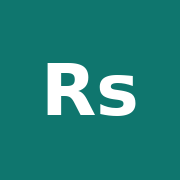
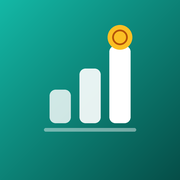
Add files via upload

diff --git a/index.html b/index.html
@@ -80,13 +80,15 @@ dialog{border:1px solid var(--line);border-radius:16px;padding:0;background:var(
 dialog::backdrop{background:rgba(0,0,0,.35)}
 .dh{padding:14px;border-bottom:1px solid var(--line);font-weight:800;display:flex;justify-content:space-between;align-items:center}
 .db{padding:14px}
+.top{flex-wrap:wrap;gap:6px}.topActions{gap:6px}
 </style>
 </head>
 <body>
 <div class="top">
-  <div class="brand"><i style="font-size:12px">Rs</i> Expense Tracker</div>
+  <div class="brand"><i><svg viewBox="0 0 24 24" width="18" height="18" aria-hidden="true"><rect x="3.5" y="13" width="4.5" height="7" rx="1.6" fill="#fff" opacity=".8"/><rect x="9.8" y="9" width="4.5" height="11" rx="1.6" fill="#fff" opacity=".9"/><rect x="16" y="5" width="4.5" height="15" rx="1.6" fill="#fff"/></svg></i> Expense Tracker</div>
   <div class="topActions">
-    <button class="btn sm" id="backupBtn">Download</button>
+    <button class="btn sm" id="syncBtn" onclick="openSync()">Sync</button>
+    <button class="btn sm" id="backupBtn">Backup</button>
     <label class="btn sm" style="cursor:pointer"><input id="restoreFile" type="file" accept=".db,.sqlite,.bin" hidden>Restore</label>
   </div>
 </div>
@@ -100,6 +102,8 @@ dialog::backdrop{background:rgba(0,0,0,.35)}
       <div class="amountWrap"><span>Rs.</span><input id="amt" class="input" inputmode="decimal" placeholder="0.00" autocomplete="off"></div>
       <div style="height:10px"></div>
       <div class="seg" role="tablist"><button id="tExpense" class="on" onclick="switchType('expense')">Expense</button><button id="tIncome" onclick="switchType('income')">Income</button></div>
+      <div class="label">Account</div><div id="accChips" class="chips"></div><div id="accHint" class="muted" style="font-size:12px;margin:6px 2px 0"></div>
+      <div id="noAcc" class="hidden empty" style="padding:12px;margin-top:8px">No account yet. <a href="#" onclick="nav('accounts');openAcc();return false" style="color:var(--teal2);font-weight:700">Create your first account</a></div>
       <div class="label">Category</div>
       <div id="catChips" class="chips"></div>
       <div id="subWrap" class="hidden"><div class="label">Sub-category</div><div id="subChips" class="chips"></div></div>
@@ -156,14 +160,23 @@ dialog::backdrop{background:rgba(0,0,0,.35)}
         <select id="loanKind" class="input"><option value="given">Lent</option><option value="returned">Received</option></select>
       </div>
       <input id="loanNote" class="input" placeholder="Note (optional)" style="margin-top:8px">
+      <select id="loanAcc" class="input" style="margin-top:8px"></select>
       <button class="btn primary" style="width:100%;margin-top:10px" onclick="addLoan()">Add entry</button>
     </div>
     <div id="pendingsList" class="list" style="margin-top:12px"></div>
   </section>
 
+  <!-- ACCOUNTS -->
+  <section id="view-accounts" class="hidden">
+    <div class="card hero"><div class="k">Total balance</div><div id="accTotal" class="v">Rs. 0.00</div></div>
+    <div class="row" style="margin-top:10px"><button class="btn primary" onclick="openAcc()">+ Account</button><button class="btn" onclick="openTr()">⇄ Transfer</button><button class="btn" onclick="nav('categories')">Categories</button></div>
+    <div id="accList" class="list" style="margin-top:10px"></div>
+    <div class="label">Recent transfers</div><div id="trList" class="list"></div>
+  </section>
+
   <!-- CATEGORIES -->
   <section id="view-categories" class="hidden">
-    <div class="card hrow"><b>Categories</b><button class="btn primary sm" onclick="openCat()">+ New category</button></div>
+    <div class="card hrow"><button class="btn sm" onclick="nav('accounts')">‹ Accounts</button><b>Categories</b><button class="btn primary sm" onclick="openCat()">+ New category</button></div>
     <div id="catsExpense" class="list" style="margin-top:10px"></div>
     <div class="label">Income categories</div>
     <div id="catsIncome" class="list"></div>
@@ -175,7 +188,7 @@ dialog::backdrop{background:rgba(0,0,0,.35)}
   <button id="nav-history" onclick="nav('history')"><b>◧</b>History</button>
   <button id="nav-dashboard" onclick="nav('dashboard')"><b>◰</b>Dashboard</button>
   <button id="nav-pendings" onclick="nav('pendings')"><b>⇄</b>Pendings</button>
-  <button id="nav-categories" onclick="nav('categories')"><b>⚙</b>Categories</button>
+  <button id="nav-accounts" onclick="nav('accounts')"><b>◎</b>Accounts</button>
 </nav>
 
 <div id="toast" class="hidden" style="position:fixed;left:12px;right:12px;bottom:76px;z-index:30;max-width:496px;margin:auto;background:var(--text);color:var(--bg);padding:10px 14px;border-radius:12px;display:flex;justify-content:space-between;align-items:center;font-weight:600"></div>
@@ -194,6 +207,25 @@ dialog::backdrop{background:rgba(0,0,0,.35)}
     <div class="row" style="margin-top:12px"><button class="btn" style="flex:1" onclick="catDlg.close()">Cancel</button><button class="btn primary" style="flex:1" onclick="saveCategory()">Save</button></div>
   </div>
 </dialog>
+
+<dialog id="accDlg"><div class="dh"><span id="accDlgTitle">New account</span><button class="btn sm" onclick="accDlg.close()">✕</button></div><div class="db">
+  <input id="accName" class="input" placeholder="Name (e.g. Cash, HBL Bank, JazzCash)" maxlength="24">
+  <div class="label">Opening balance (Rs.)</div><input id="accOpen" class="input" inputmode="decimal" placeholder="0">
+  <div class="label">Emoji</div><input id="accEmoji" class="input" maxlength="4">
+  <div class="chips" style="margin-top:8px"><button class="chip" onclick="accEmoji.value='💵'">💵</button><button class="chip" onclick="accEmoji.value='🏦'">🏦</button><button class="chip" onclick="accEmoji.value='📱'">📱</button><button class="chip" onclick="accEmoji.value='💳'">💳</button><button class="chip" onclick="accEmoji.value='👛'">👛</button><button class="chip" onclick="accEmoji.value='🪙'">🪙</button></div>
+  <input type="hidden" id="accId"><div class="row" style="margin-top:12px"><button class="btn" onclick="accDlg.close()">Cancel</button><button class="btn primary" onclick="saveAcc()">Save</button></div></div></dialog>
+
+<dialog id="trDlg"><div class="dh"><span>Transfer between accounts</span><button class="btn sm" onclick="trDlg.close()">✕</button></div><div class="db">
+  <div class="label">From</div><select id="trFrom" class="input"></select><div class="label">To</div><select id="trTo" class="input"></select>
+  <div class="label">Amount (Rs.)</div><input id="trAmt" class="input" inputmode="decimal" placeholder="0.00">
+  <div class="grid2" style="margin-top:8px"><input id="trDate" type="date" class="input"><input id="trNote" class="input" placeholder="Note (optional)"></div>
+  <button class="btn primary" style="width:100%;margin-top:12px;padding:12px" onclick="saveTr()">Transfer</button></div></dialog>
+
+<dialog id="syncDlg"><div class="dh"><span>Google Drive sync</span><button class="btn sm" onclick="syncDlg.close()">✕</button></div><div class="db">
+  <div class="muted" style="font-size:13px">Keeps your devices in step through a private Drive app folder that only this app can see.</div>
+  <div class="label">Google Client ID</div><input id="gcid" class="input" placeholder="xxxx.apps.googleusercontent.com" autocomplete="off" autocapitalize="off" spellcheck="false">
+  <button id="syncGo" class="btn primary" style="width:100%;margin-top:12px;padding:12px" onclick="doSync()">Sync now</button>
+  <div id="syncMsg" class="muted" style="font-size:13px;margin-top:10px;min-height:18px"></div><div id="lastSync" class="muted" style="font-size:12px;margin-top:4px"></div></div></dialog>
 
 <script src="https://cdnjs.cloudflare.com/ajax/libs/sql.js/1.10.3/sql-wasm.js"></script>
 <script>
@@ -224,12 +256,15 @@ function ensureSchema(){
   db.run(`CREATE TABLE IF NOT EXISTS loans (id TEXT PRIMARY KEY, person TEXT, txn_date TEXT, amount INTEGER, kind TEXT, note TEXT, updated_at TEXT, deleted_at TEXT)`);
   db.run(`CREATE INDEX IF NOT EXISTS idx_txn_date ON transactions(txn_date)`);
   db.run(`CREATE INDEX IF NOT EXISTS idx_cat_parent ON categories(parent_id)`);
+  db.run(`CREATE TABLE IF NOT EXISTS accounts (id TEXT PRIMARY KEY, name TEXT, emoji TEXT, opening INTEGER, active INTEGER, updated_at TEXT, deleted_at TEXT)`);
+  db.run(`CREATE TABLE IF NOT EXISTS transfers (id TEXT PRIMARY KEY, txn_date TEXT, amount INTEGER, from_id TEXT, to_id TEXT, note TEXT, updated_at TEXT, deleted_at TEXT)`);
+  ['transactions','loans'].forEach(t=>{ if(!q(`PRAGMA table_info(${t})`).some(c=>c.name==='account_id')) db.run(`ALTER TABLE ${t} ADD COLUMN account_id TEXT`); });
 }
 function needSeed(){const r=q(`SELECT count(*) as c FROM categories WHERE deleted_at IS NULL`); return (r[0]?.c||0)===0;}
 function seed(){
   const now=new Date().toISOString();
   function addCat(name,kind,emoji,color,parent=null){
-    const id=uid(); run(`INSERT INTO categories (id,name,parent_id,kind,emoji,color,active,updated_at) VALUES (?,?,?,?,?,?,1,?)`,[id,name,parent,kind,emoji,color,now]); return id;
+    const id='seed:'+kind+':'+name+(parent?'@'+parent:''); run(`INSERT INTO categories (id,name,parent_id,kind,emoji,color,active,updated_at) VALUES (?,?,?,?,?,?,1,?)`,[id,name,parent,kind,emoji,color,now]); return id;
   }
   const exp=[
     ['Food','🍔','#f97316',[['Restaurant'],['Groceries'],['Cafe']]],
@@ -258,14 +293,19 @@ async function init(){
   if(buf){ db=new SQL.Database(new Uint8Array(buf)); ensureSchema();}
   else { db=new SQL.Database(); ensureSchema(); if(needSeed()) seed(); await saveDB();}
   // ensure schema if old
-  ensureSchema(); loadCats();
+  ensureSchema();
+  if(localStorage.getItem('exp_seedv')!=='2'){ // one-time: shared default category ids so synced devices do not get duplicate categories
+    if(!q(`SELECT 1 x FROM transactions LIMIT 1`).length && !q(`SELECT 1 x FROM loans LIMIT 1`).length){ run(`DELETE FROM categories`); seed(); await saveDB(); }
+    localStorage.setItem('exp_seedv','2');
+  }
+  loadCats();
   $('#txnDate').value=todayISO();
   $('#loanDate').value=todayISO();
   buildEmojiGrid(); buildSwatches();
   switchType('expense'); renderAll(); setupBackup(); updateBk(); if(navigator.storage&&navigator.storage.persist) navigator.storage.persist();
   if('serviceWorker' in navigator) try{navigator.serviceWorker.register('sw.js');}catch{}
 }
-function renderAll(){renderCatChips(); const m={history:renderHistory,dashboard:renderDashboard,pendings:renderPendings,categories:renderCategories}[curView]; if(m) m();}
+function renderAll(){renderCatChips(); renderAccChips(); const m={accounts:renderAccounts,history:renderHistory,dashboard:renderDashboard,pendings:renderPendings,categories:renderCategories}[curView]; if(m) m();}
 
 function switchType(t){curType=t; selCat=null; selSub=null; $('#tExpense').classList.toggle('on',t==='expense'); $('#tIncome').classList.toggle('on',t==='income'); renderCatChips();}
 function renderCatChips(){
@@ -278,7 +318,7 @@ function renderCatChips(){
     c.appendChild(b);
   });
   renderSubChips();
-  if(!cats.length) c.innerHTML='<span class="muted" style="font-size:13px">No categories — create one in Categories tab.</span>';
+  if(!cats.length) c.innerHTML='<span class="muted" style="font-size:13px">No categories — create one under Accounts › Categories.</span>';
 }
 function renderSubChips(){
   const w=$('#subWrap'), s=$('#subChips');
@@ -297,16 +337,17 @@ function saveTxn(){
   const paise=toPaise($('#amt').value);
   if(!paise || isNaN(paise) || paise<=0){$('#addMsg').textContent='Enter a valid amount.'; return;}
   if(!selCat){$('#addMsg').textContent='Pick a category.'; return;}
+  if(!selAcc){$('#addMsg').textContent='Create an account first.'; return;}
   const cid=selSub||selCat;
   const d=$('#txnDate').value||todayISO();
   const note=$('#note').value.trim();
-  run(`INSERT INTO transactions (id,txn_date,amount,type,category_id,note,updated_at) VALUES (?,?,?,?,?,?,?)`,[uid(),d,paise,curType,cid,note,new Date().toISOString()]);
+  run(`INSERT INTO transactions (id,txn_date,amount,type,category_id,note,account_id,updated_at) VALUES (?,?,?,?,?,?,?,?)`,[uid(),d,paise,curType,cid,note,selAcc,new Date().toISOString()]);
   saveDB(); $('#amt').value=''; $('#note').value=''; $('#addMsg').textContent='Saved ✓'; setTimeout(()=>$('#addMsg').textContent='',1500);
   renderAll();
 }
 
 function setFilter(f){curFilter=f; histDays=50; ['All','Expense','Income'].forEach((k,i)=>{const id=['fAll','fExpense','fIncome'][i]; $('#'+id).classList.toggle('on', (['all','expense','income'][i]===f));}); renderHistory();}
-let CATS=new Map();function loadCats(){CATS=new Map(q(`SELECT * FROM categories`).map(c=>[c.id,c]));}
+let CATS=new Map(),ACC=new Map();function loadCats(){CATS=new Map(q(`SELECT * FROM categories`).map(c=>[c.id,c])); ACC=new Map(q(`SELECT * FROM accounts`).map(a=>[a.id,a]));}
 function catName(id){return CATS.get(id)||null;}
 function catPath(catId){const c=catName(catId); if(!c) return '—'; if(!c.parent_id) return c.name; const p=catName(c.parent_id); return p? `${p.name} › ${c.name}`:c.name;}
 function iconHtml(cat,size=16){const bg=cat.color||'#94a3b8'; const ch=cat.emoji? esc(cat.emoji) : esc((cat.name||'?')[0].toUpperCase()); if(cat.emoji) return `<span class="icon" style="background:${bg};font-size:${size}px">${ch}</span>`; return `<span class="icon" style="background:${bg};font-size:${Math.round(size*.75)}px">${ch}</span>`;}
@@ -335,7 +376,7 @@ function renderHistory(){
       const row=document.createElement('div'); row.className='item';
       const amtColor=r.type==='expense'?'var(--red)':'var(--green)';
       const amtPrefix=r.type==='expense'?'-':'+';
-      row.innerHTML=`${iconHtml(cat)}<div style="flex:1;min-width:0"><div style="font-weight:700;white-space:nowrap;overflow:hidden;text-overflow:ellipsis">${esc(catPath(r.category_id))}</div><div class="muted" style="font-size:12px;white-space:nowrap;overflow:hidden;text-overflow:ellipsis">${esc(r.txn_date)} • ${esc(r.note||'—')}</div></div><div style="text-align:right"><div style="font-weight:800;color:${amtColor}">${amtPrefix}${fmtPaise(r.amount)}</div><button class="btn sm" style="margin-top:4px;padding:4px 8px;font-size:11px" data-del="${r.id}">Delete</button></div>`;
+      row.innerHTML=`${iconHtml(cat)}<div style="flex:1;min-width:0"><div style="font-weight:700;white-space:nowrap;overflow:hidden;text-overflow:ellipsis">${esc(catPath(r.category_id))}</div><div class="muted" style="font-size:12px;white-space:nowrap;overflow:hidden;text-overflow:ellipsis">${esc(r.txn_date)} • ${accTag(r.account_id)}${esc(r.note||'—')}</div></div><div style="text-align:right"><div style="font-weight:800;color:${amtColor}">${amtPrefix}${fmtPaise(r.amount)}</div><button class="btn sm" style="margin-top:4px;padding:4px 8px;font-size:11px" data-del="${r.id}">Delete</button></div>`;
       cont.appendChild(row);
     });
   });
@@ -475,7 +516,7 @@ function addLoan(){
   const person=$('#loanPerson').value.trim(); if(!person){alert('Enter person name');return;}
   const paise=toPaise($('#loanAmt').value); if(!paise||paise<=0){alert('Enter amount');return;}
   const d=$('#loanDate').value||todayISO(); const kind=$('#loanKind').value; const note=$('#loanNote').value.trim();
-  run(`INSERT INTO loans (id,person,txn_date,amount,kind,note,updated_at) VALUES (?,?,?,?,?,?,?)`,[uid(),person,d,paise,kind,note,new Date().toISOString()]);
+  run(`INSERT INTO loans (id,person,txn_date,amount,kind,note,account_id,updated_at) VALUES (?,?,?,?,?,?,?,?)`,[uid(),person,d,paise,kind,note,$('#loanAcc').value||null,new Date().toISOString()]);
   saveDB(); $('#loanAmt').value=''; $('#loanNote').value='';
   renderPendings(); renderDashboard();
 }
@@ -561,11 +602,12 @@ function renderCategories(){
 
 // Nav
 function nav(name){curView=name;
-  ['add','history','dashboard','pendings','categories'].forEach(n=>{const v=$('#view-'+n); if(v) v.classList.toggle('hidden', n!==name); const b=$('#nav-'+n); if(b) b.classList.toggle('on', n===name);});
+  ['add','history','dashboard','pendings','accounts','categories'].forEach(n=>{const v=$('#view-'+n); if(v) v.classList.toggle('hidden', n!==name); const b=$('#nav-'+n); if(b) b.classList.toggle('on', n===name);});
   if(name==='history') renderHistory();
   if(name==='dashboard') renderDashboard();
   if(name==='pendings') renderPendings();
   if(name==='categories') renderCategories();
+  if(name==='accounts') renderAccounts();
   window.scrollTo({top:0,behavior:'smooth'});
 }
 
@@ -584,6 +626,107 @@ function setupBackup(){
     try{ const test=new SQL.Database(new Uint8Array(buf)); test.exec('SELECT count(*) FROM categories'); test.close(); }catch(err){ alert('Invalid DB file'); return;}
     await idbPut(new Uint8Array(buf)); location.reload();
   };
+}
+
+// ---- Accounts ----
+let selAcc=localStorage.getItem('exp_last_acc')||'';
+function accTag(id){const a=ACC.get(id); return a? esc(a.name)+' • ' : '';}
+function activeAccs(){return [...ACC.values()].filter(a=>a.active&&!a.deleted_at).sort((a,b)=>a.name.localeCompare(b.name));}
+function balances(){
+  const A=q(`SELECT * FROM accounts WHERE deleted_at IS NULL ORDER BY active DESC, name COLLATE NOCASE`), B={};
+  A.forEach(a=>B[a.id]=a.opening||0);
+  q(`SELECT account_id a,type t,SUM(amount) s FROM transactions WHERE deleted_at IS NULL AND account_id IS NOT NULL GROUP BY a,t`).forEach(r=>{if(r.a in B) B[r.a]+= r.t==='income'? r.s : -r.s;});
+  q(`SELECT account_id a,kind k,SUM(amount) s FROM loans WHERE deleted_at IS NULL AND account_id IS NOT NULL GROUP BY a,k`).forEach(r=>{if(r.a in B) B[r.a]+= r.k==='returned'? r.s : -r.s;});
+  q(`SELECT from_id f,to_id t,SUM(amount) s FROM transfers WHERE deleted_at IS NULL GROUP BY f,t`).forEach(r=>{if(r.f in B) B[r.f]-=r.s; if(r.t in B) B[r.t]+=r.s;});
+  return {A,B};
+}
+function renderAccChips(){
+  const A=activeAccs(), w=$('#accChips'); if(!A.some(a=>a.id===selAcc)) selAcc=A[0]?A[0].id:'';
+  $('#noAcc').classList.toggle('hidden',A.length>0); w.innerHTML='';
+  A.forEach(a=>{const b=document.createElement('button'); b.className='chip'+(a.id===selAcc?' on':''); b.textContent=(a.emoji||'')+' '+a.name; b.onclick=()=>{selAcc=a.id; localStorage.setItem('exp_last_acc',selAcc); renderAccChips();}; w.appendChild(b);});
+  $('#accHint').textContent=selAcc? 'Balance: '+fmtPaise(balances().B[selAcc]||0) : '';
+  $('#loanAcc').innerHTML='<option value="">No account (do not track)</option>'+A.map(a=>`<option value="${a.id}" ${a.id===selAcc?'selected':''}>${esc((a.emoji||'')+' '+a.name)}</option>`).join('');
+}
+function renderAccounts(){
+  const {A,B}=balances(); $('#accTotal').textContent=fmtPaise(A.filter(a=>a.active).reduce((s,a)=>s+B[a.id],0));
+  const l=$('#accList'); l.innerHTML=A.length?'':'<div class="empty">No accounts yet. Tap “+ Account”.</div>';
+  A.forEach(a=>{const c=document.createElement('div'); c.className='card hrow'; c.style.opacity=a.active?1:.55;
+    c.innerHTML=`<span style="display:flex;gap:10px;align-items:center"><span style="font-size:26px">${esc(a.emoji||'🏦')}</span><span><b>${esc(a.name)}</b>${a.active?'':' <span class="badge red">Hidden</span>'}<div style="font-weight:800;color:${B[a.id]<0?'var(--red)':'var(--text)'}">${fmtPaise(B[a.id])}</div></span></span><span style="display:flex;gap:6px"><button class="btn sm" data-ae="${a.id}">Edit</button><button class="btn sm" data-ah="${a.id}">${a.active?'Hide':'Show'}</button></span>`;
+    l.appendChild(c);});
+  l.querySelectorAll('[data-ae]').forEach(b=>b.onclick=()=>openAcc(b.dataset.ae));
+  l.querySelectorAll('[data-ah]').forEach(b=>b.onclick=()=>{const a=ACC.get(b.dataset.ah); run(`UPDATE accounts SET active=?,updated_at=? WHERE id=?`,[a.active?0:1,new Date().toISOString(),a.id]); saveDB(); renderAll();});
+  const T=q(`SELECT * FROM transfers WHERE deleted_at IS NULL ORDER BY txn_date DESC, rowid DESC LIMIT 10`), tl=$('#trList');
+  tl.innerHTML=T.length? T.map(t=>`<div class="item" style="padding:8px 10px"><div style="flex:1;min-width:0"><div style="font-weight:700">${esc((ACC.get(t.from_id)||{}).name||'?')} → ${esc((ACC.get(t.to_id)||{}).name||'?')}</div><div class="muted" style="font-size:12px">${esc(t.txn_date)} • ${esc(t.note||'—')}</div></div><b>${fmtPaise(t.amount)}</b> <button class="btn sm" data-td="${t.id}">✕</button></div>`).join('') : '<div class="muted" style="font-size:13px">No transfers yet.</div>';
+  tl.querySelectorAll('[data-td]').forEach(b=>b.onclick=()=>delRow('transfers',b.dataset.td));
+}
+function openAcc(id){const a=id?ACC.get(id):null; $('#accId').value=id||''; $('#accName').value=a?a.name:''; $('#accOpen').value=a?(a.opening||0)/100:''; $('#accEmoji').value=a?(a.emoji||''):'🏦'; $('#accDlgTitle').textContent=a?'Edit account':'New account'; accDlg.showModal();}
+function saveAcc(){
+  const name=$('#accName').value.trim(); if(!name) return alert('Enter an account name');
+  const open=toPaise($('#accOpen').value||'0'); if(isNaN(open)) return alert('Opening balance must be a number');
+  const id=$('#accId').value, now=new Date().toISOString();
+  if([...ACC.values()].some(a=>!a.deleted_at&&a.id!==id&&a.name.toLowerCase()===name.toLowerCase())) return alert('An account with this name already exists');
+  const emoji=$('#accEmoji').value.trim()||'🏦';
+  if(id) run(`UPDATE accounts SET name=?,emoji=?,opening=?,updated_at=? WHERE id=?`,[name,emoji,open,now,id]);
+  else run(`INSERT INTO accounts (id,name,emoji,opening,active,updated_at) VALUES (?,?,?,?,1,?)`,[uid(),name,emoji,open,now]);
+  saveDB(); accDlg.close(); renderAll();
+}
+function openTr(){const A=activeAccs(); if(A.length<2) return alert('Create at least two accounts first.');
+  const o=A.map(a=>`<option value="${a.id}">${esc((a.emoji||'')+' '+a.name)}</option>`).join(''); $('#trFrom').innerHTML=o; $('#trTo').innerHTML=o; $('#trTo').selectedIndex=1; $('#trAmt').value=''; $('#trNote').value=''; $('#trDate').value=todayISO(); trDlg.showModal();}
+function saveTr(){const f=$('#trFrom').value,t=$('#trTo').value,p=toPaise($('#trAmt').value);
+  if(f===t) return alert('Pick two different accounts'); if(!p||isNaN(p)||p<=0) return alert('Enter a valid amount');
+  run(`INSERT INTO transfers (id,txn_date,amount,from_id,to_id,note,updated_at) VALUES (?,?,?,?,?,?,?)`,[uid(),$('#trDate').value||todayISO(),p,f,t,$('#trNote').value.trim(),new Date().toISOString()]);
+  saveDB(); trDlg.close(); renderAll();}
+
+// ---- Google Drive sync: private appDataFolder, one JSON file per device, newest updated_at wins ----
+const SYNC_TABLES=['categories','accounts','transactions','loans','transfers'], G_SCOPE='https://www.googleapis.com/auth/drive.appdata';
+let gTok=null,gExp=0,syncing=false;
+function DEV(){let d=localStorage.getItem('exp_device'); if(!d){d=uid(); localStorage.setItem('exp_device',d);} return d;}
+function syncMsg(t,bad){const e=$('#syncMsg'); e.textContent=t; e.style.color=bad?'var(--red)':'var(--muted)';}
+function updSync(){const d=localStorage.getItem('exp_last_sync'); $('#lastSync').textContent=d? 'Last synced: '+iso(new Date(d))+' '+new Date(d).toLocaleTimeString([],{hour:'2-digit',minute:'2-digit'}) : 'Never synced';}
+function openSync(){$('#gcid').value=localStorage.getItem('exp_gcid')||''; syncMsg(''); updSync(); syncDlg.showModal();}
+function loadGIS(){return new Promise((ok,no)=>{ if(window.google&&google.accounts&&google.accounts.oauth2) return ok(); const s=document.createElement('script'); s.src='https://accounts.google.com/gsi/client'; s.onload=ok; s.onerror=()=>no(new Error('Could not load Google sign-in. Check your internet connection.')); document.head.appendChild(s);});}
+async function getToken(cid){
+  if(gTok&&Date.now()<gExp) return gTok; await loadGIS();
+  return new Promise((ok,no)=>{ google.accounts.oauth2.initTokenClient({client_id:cid,scope:G_SCOPE,
+    callback:r=>{ if(r.error) return no(new Error('Sign-in failed: '+r.error)); gTok=r.access_token; gExp=Date.now()+(r.expires_in-60)*1000; ok(gTok); },
+    error_callback:()=>no(new Error('Sign-in popup was closed or blocked.'))}).requestAccessToken(); });
+}
+async function gfetch(url,opt={}){const r=await fetch(url,{...opt,headers:{...(opt.headers||{}),Authorization:'Bearer '+gTok}});
+  if(r.status===401){gTok=null; throw new Error('Session expired. Tap Sync again.');} if(!r.ok) throw new Error('Google Drive error '+r.status+'. Check the setup steps.'); return r;}
+function snapshot(){const o={v:1,device:DEV(),at:new Date().toISOString(),t:{}}; SYNC_TABLES.forEach(t=>o.t[t]=q(`SELECT * FROM ${t}`)); return o;}
+function mergeRemote(o){
+  if(!o||o.v!==1||!o.t) return 0; let n=0;
+  for(const t of SYNC_TABLES){
+    const cols=q(`PRAGMA table_info(${t})`).map(c=>c.name), local=new Map(q(`SELECT id,updated_at FROM ${t}`).map(r=>[r.id,r.updated_at||'']));
+    for(const r of (o.t[t]||[])){
+      if(!r||typeof r.id!=='string') continue;
+      if(local.has(r.id)&&(r.updated_at||'')<=local.get(r.id)) continue;
+      const k=Object.keys(r).filter(c=>cols.includes(c));
+      db.run(`INSERT OR REPLACE INTO ${t} (${k.join(',')}) VALUES (${k.map(()=>'?').join(',')})`,k.map(c=>r[c])); n++;
+    }
+  }
+  return n;
+}
+async function doSync(){
+  if(syncing) return; const cid=$('#gcid').value.trim();
+  if(!cid) return syncMsg('Paste your Google Client ID first.',1);
+  if(!navigator.onLine) return syncMsg('You are offline. Try again when connected.',1);
+  localStorage.setItem('exp_gcid',cid); syncing=true; $('#syncGo').disabled=true;
+  try{
+    syncMsg('Signing in…'); await getToken(cid); syncMsg('Reading Drive…');
+    const me='device-'+DEV()+'.json', API='https://www.googleapis.com/drive/v3/files';
+    const list=((await (await gfetch(API+'?spaces=appDataFolder&pageSize=100&fields=files(id,name)')).json()).files)||[];
+    let merged=0; db.run('BEGIN');
+    try{ for(const f of list){ if(f.name===me||!/^device-[\w-]+\.json$/.test(f.name)) continue; merged+=mergeRemote(await (await gfetch(API+'/'+f.id+'?alt=media')).json()); } db.run('COMMIT'); }
+    catch(e){ db.run('ROLLBACK'); throw e; }
+    if(merged){ saveDB(); renderAll(); }
+    syncMsg('Uploading…'); const data=JSON.stringify(snapshot()), mine=list.find(f=>f.name===me);
+    if(mine) await gfetch('https://www.googleapis.com/upload/drive/v3/files/'+mine.id+'?uploadType=media',{method:'PATCH',headers:{'Content-Type':'application/json'},body:data});
+    else{ const b='b'+uid(); await gfetch('https://www.googleapis.com/upload/drive/v3/files?uploadType=multipart',{method:'POST',headers:{'Content-Type':'multipart/related; boundary='+b},body:`--${b}\r\nContent-Type: application/json; charset=UTF-8\r\n\r\n${JSON.stringify({name:me,parents:['appDataFolder']})}\r\n--${b}\r\nContent-Type: application/json\r\n\r\n${data}\r\n--${b}--`}); }
+    localStorage.setItem('exp_last_sync',new Date().toISOString()); updSync();
+    syncMsg(merged? 'Done. '+merged+' change(s) received.' : 'Done. Everything is up to date.');
+  }catch(e){ syncMsg(e.message||'Sync failed.',1); }
+  finally{ syncing=false; $('#syncGo').disabled=false; }
 }
 
 init();

diff --git a/sw.js b/sw.js
@@ -1,4 +1,4 @@
-const CACHE='exp-v2';
+const CACHE='exp-v3';
 const ASSETS=['./','./index.html','./manifest.json','./icon-180.png','./icon-192.png','./icon-512.png'];
 self.addEventListener('install',e=>{e.waitUntil(caches.open(CACHE).then(c=>c.addAll(ASSETS)));self.skipWaiting()});
 self.addEventListener('activate',e=>{e.waitUntil(caches.keys().then(ks=>Promise.all(ks.filter(k=>k!==CACHE).map(k=>caches.delete(k)))));self.clients.claim()});
